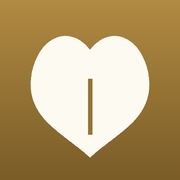
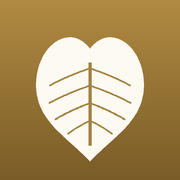
加入四個展區的 QR Code，圖示補上葉脈
- make-qr.py：從 index.html 讀展區，每站輸出純 QR（png/svg）與 A6 卡片
- QR 容錯設 H 並在中央嵌圖示，已用解碼器驗證各種縮放下都讀得到
- 純 QR 改白底：透明背景在很多軟體會被壓成黑底而掃不到
- 不再對 QR 做非整數倍縮放，避免格子忽寬忽窄
- 圖示維持原本的葉形，補上中脈與四對弧形側脈，線條放細調淡

diff --git a/make-qr.py b/make-qr.py
@@ -1,0 +1,114 @@
+#!/usr/bin/env python3
+"""產生四個展區的 QR Code。需先安裝：pip install qrcode Pillow
+
+  python3 make-qr.py [網址]
+
+展區名稱直接從 index.html 的 TRACKS 讀，網址預設是 GitHub Pages 那個。
+每一站輸出三種檔案到 qr/：
+  a1.png        純 QR（去背，方便自己排版）
+  a1.svg        純 QR 向量圖（印大張不會糊）
+  a1-card.png   A6 直式卡片 300dpi，可以直接印出來貼在展板上
+"""
+import io, os, re, sys
+import qrcode
+from qrcode.constants import ERROR_CORRECT_H
+from PIL import Image, ImageDraw, ImageFont
+
+BASE = sys.argv[1] if len(sys.argv) > 1 else "https://ding25025.github.io/puji-audio-guide/"
+OUT  = "qr"
+
+BG, FG   = (248, 246, 241), (33, 31, 26)     # 卡片底色、主要文字
+GOLD     = (138, 106, 47)
+MUTED    = (111, 106, 94)
+SONG     = "/System/Library/Fonts/Supplemental/Songti.ttc"   # 宋體繁體
+HEITI    = "/System/Library/Fonts/STHeiti Light.ttc"         # 黑體繁體
+font = lambda path, size, idx: ImageFont.truetype(path, size, index=idx)
+
+
+def tracks():
+    """從 index.html 讀展區，避免兩邊資料不同步"""
+    html = io.open("index.html", encoding="utf-8").read()
+    got = re.findall(r"id:'(\w+)', title:'([^']+)', label:'([^']+)'", html)
+    if not got:
+        raise SystemExit("index.html 裡找不到 TRACKS")
+    return got
+
+
+def qr_matrix(url):
+    q = qrcode.QRCode(error_correction=ERROR_CORRECT_H, border=4)
+    q.add_data(url); q.make(fit=True)
+    return q.get_matrix()
+
+
+def qr_image(url, px, dark=FG, light=(255, 255, 255)):
+    """畫成圖。背景一定要是實色：透明背景在很多軟體會被壓成黑底，就掃不到了"""
+    m = qr_matrix(url)
+    n = len(m)
+    cell = max(1, px // n)
+    img = Image.new("RGBA", (n * cell, n * cell), light + (255,))
+    d = ImageDraw.Draw(img)
+    for y, row in enumerate(m):
+        for x, on in enumerate(row):
+            if on:
+                d.rectangle([x*cell, y*cell, (x+1)*cell-1, (y+1)*cell-1], fill=dark + (255,))
+    return img          # 不再縮放：px 不是模組數的整數倍時，格子會忽寬忽窄而掃不到
+
+
+def with_logo(qr, ratio=.21):
+    """中央嵌菩提葉；容錯設為 H，遮住這點面積仍掃得到"""
+    if not os.path.exists("icon-512.png"):
+        return qr
+    side = round(qr.width * ratio)
+    pad  = round(side * .13)
+    plate = Image.new("RGBA", (side + pad*2, side + pad*2), (0, 0, 0, 0))
+    ImageDraw.Draw(plate).rounded_rectangle([0, 0, plate.width-1, plate.height-1],
+                                            radius=plate.width*.24, fill=(255, 255, 255, 255))
+    logo = Image.open("icon-512.png").convert("RGBA").resize((side, side), Image.LANCZOS)
+    plate.paste(logo, (pad, pad), logo)
+    qr = qr.copy()
+    qr.paste(plate, ((qr.width - plate.width)//2, (qr.height - plate.height)//2), plate)
+    return qr
+
+
+def svg(url, path):
+    m = qr_matrix(url); n = len(m)
+    rects = "".join(f'<rect x="{x}" y="{y}" width="1" height="1"/>'
+                    for y, row in enumerate(m) for x, on in enumerate(row) if on)
+    io.open(path, "w", encoding="utf-8").write(
+        f'<svg xmlns="http://www.w3.org/2000/svg" viewBox="0 0 {n} {n}" shape-rendering="crispEdges">'
+        f'<rect width="{n}" height="{n}" fill="#fff"/><g fill="#{"%02x%02x%02x" % FG}">{rects}</g></svg>\n')
+
+
+def card(url, title, label, path):
+    """A6 直式 300dpi"""
+    W, H = 1240, 1748
+    img = Image.new("RGB", (W, H), BG)
+    d = ImageDraw.Draw(img)
+    d.rounded_rectangle([28, 28, W-29, H-29], radius=46, outline=GOLD, width=4)
+
+    if os.path.exists("icon-192.png"):
+        leaf = Image.open("icon-192.png").convert("RGBA").resize((104, 104), Image.LANCZOS)
+        img.paste(leaf, ((W - 104)//2, 122), leaf)
+
+    d.text((W/2, 300), "小護法養成記", font=font(SONG, 62, 2), fill=FG, anchor="mm")
+    d.text((W/2, 372), "普濟精舍　護博會展覽", font=font(HEITI, 34, 0), fill=MUTED, anchor="mm")
+
+    q = with_logo(qr_image(url, 820))
+    qx, qy = (W - q.width)//2, 470
+    d.rounded_rectangle([qx-26, qy-26, qx+q.width+25, qy+q.height+25], radius=28, fill=(255, 255, 255))
+    img.paste(q, (qx, qy), q)
+
+    d.text((W/2, 1436), label, font=font(HEITI, 40, 0), fill=GOLD, anchor="mm")
+    d.text((W/2, 1532), title, font=font(SONG, 96, 2), fill=FG, anchor="mm")
+    d.text((W/2, 1632), "掃描聆聽語音導覽", font=font(HEITI, 38, 0), fill=MUTED, anchor="mm")
+    img.save(path, dpi=(300, 300))
+
+
+os.makedirs(OUT, exist_ok=True)
+for tid, title, label in tracks():
+    url = BASE + "#" + tid
+    with_logo(qr_image(url, 1200)).save(f"{OUT}/{tid}.png")
+    svg(url, f"{OUT}/{tid}.svg")
+    card(url, title, label, f"{OUT}/{tid}-card.png")
+    print(f"{label}　{title}　{url}")
+print(f"\n完成，檔案在 {OUT}/")

diff --git a/make-icon.py b/make-icon.py
@@ -13,19 +13,29 @@ SUPER  = 4                      # 先畫大張再縮小，邊緣才平滑
 GOLD_1 = (176, 138, 66)         # 底色漸層（上）
 GOLD_2 = (122,  92, 39)         # 底色漸層（下）
 LEAF   = (253, 250, 242)        # 葉子
-VEIN   = (150, 116, 54)         # 葉脈
+VEIN   = (163, 130, 64)         # 葉脈
 
 # 菩提葉輪廓：從頂端凹口出發，沿右側繞到葉尖，左側鏡像
-N = (256, 156)                                  # 頂端凹口（心形的缺口）
-R = (452, 268)                                  # 右側最寬處
-T = (256, 512)                                  # 葉尖
-SEG = [(N, (332,  58), (446, 126), R),          # 右上：肩膀圓一點
-       (R, (452, 388), (346, 430), T)]          # 右下：一路收成尖角
+N = (256, 150)                                  # 葉基凹口
+R = (434, 262)                                  # 葉身最寬處
+T = (256, 522)                                  # 葉尖
+SEG = [(N, (318,  66), (428, 130), R),          # 葉身上緣：肩膀圓潤一點
+       (R, (438, 386), (336, 438), T)]          # 下緣一路收成尖角
 SCALE = .86                                     # 整片葉子內縮，不要頂到邊
-OY    = -28                                     # 往上挪一點，視覺才置中
-VEIN_A, VEIN_B = (256, 252), (256, 436)         # 中脈起訖
+OY    = -26                                     # 往上挪一點，視覺才置中
+VEIN_A, VEIN_B = (256, 196), (256, 470)         # 中脈：從葉基一路貫到葉尖
+RIBS = [((256, 215), (323, 236), (390, 272)),   # 側脈：從近葉基處就開始分出，四對均勻散開
+        ((256, 272), (324, 294), (392, 330)),   # 越靠葉基的越長越平
+        ((256, 330), (314, 350), (372, 384)),   # （起點、弧的控制點、終點；左半鏡像）
+        ((256, 388), (293, 404), (330, 432))]
 mir = lambda p: (S - p[0], p[1])                # 左右鏡像
 fit = lambda p: (S/2 + (p[0] - S/2) * SCALE, S/2 + (p[1] - S/2) * SCALE + OY)
+
+
+def quad(p0, p1, p2, n=26):
+    return [((1-t)**2*p0[0] + 2*(1-t)*t*p1[0] + t*t*p2[0],
+             (1-t)**2*p0[1] + 2*(1-t)*t*p1[1] + t*t*p2[1])
+            for t in (i / n for i in range(n + 1))]
 
 
 def cubic(p0, p1, p2, p3, n=90):
@@ -71,7 +81,12 @@ def render(size, rounded=True):
     img.polygon([(x * k, y * k) for x, y in outline()], fill=LEAF + (255,))
     line = lambda p, q, w: img.line([(fit(p)[0] * k, fit(p)[1] * k), (fit(q)[0] * k, fit(q)[1] * k)],
                                     fill=VEIN + (255,), width=max(1, round(w * k)))
-    line(VEIN_A, VEIN_B, 13)
+    line(VEIN_A, VEIN_B, 9)
+    if size >= 96:                              # 32px 下側脈只會糊掉
+        for rib in RIBS:
+            for pts in (rib, [mir(q) for q in rib]):
+                img.line([(fit(q)[0] * k, fit(q)[1] * k) for q in quad(*pts)],
+                         fill=VEIN + (255,), width=max(1, round(5 * k)), joint="curve")
     return base.resize((size, size), Image.LANCZOS)
 
 
@@ -87,7 +102,12 @@ open("icon.svg", "w").write(f'''<svg xmlns="http://www.w3.org/2000/svg" viewBox=
   </linearGradient></defs>
   <rect width="{S}" height="{S}" rx="{round(S * 0.22)}" fill="url(#g)"/>
   <path d="{svg_path()}" fill="#{"%02x%02x%02x" % LEAF}"/>
-  <path d="M{"%g %g" % fit(VEIN_A)} L{"%g %g" % fit(VEIN_B)}" stroke="#{"%02x%02x%02x" % VEIN}" stroke-width="13" stroke-linecap="round" fill="none"/>
+  <g stroke="#{"%02x%02x%02x" % VEIN}" stroke-linecap="round" fill="none">
+    <path d="M{"%g %g" % fit(VEIN_A)} L{"%g %g" % fit(VEIN_B)}" stroke-width="9"/>
+    {"".join('<path d="M%g %g Q%g %g %g %g" stroke-width="5"/>' % (fit(a) + fit(c) + fit(b)) +
+             '<path d="M%g %g Q%g %g %g %g" stroke-width="5"/>' % (fit(mir(a)) + fit(mir(c)) + fit(mir(b)))
+             for a, c, b in RIBS)}
+  </g>
 </svg>
 ''')
 print("產生 icon.svg")

diff --git a/README.md b/README.md
@@ -6,6 +6,7 @@
 - `make-audio.sh`　用 [edge-tts](https://github.com/rany2/edge-tts) 產生 `audio1~4.mp3`
 - `audio1~4.mp3`　啟蒙區、歷練區、叛逆區、成長區
 - `make-icon.py`　產生菩提葉圖示（`icon.svg`、`icon-*.png`、`apple-touch-icon.png`）
+- `make-qr.py`　產生四個展區的 QR Code，輸出到 `qr/`
 - `manifest.webmanifest`　讓手機可以「加入主畫面」，開啟時沒有瀏覽器介面
 
 ## 網頁功能
@@ -22,6 +23,23 @@
 pip install Pillow
 python3 make-icon.py
 ```
+
+## 重新產生 QR Code
+
+```bash
+pip install qrcode Pillow
+python3 make-qr.py            # 換網址就在後面加上去：python3 make-qr.py https://...
+```
+
+展區名稱直接從 `index.html` 的 `TRACKS` 讀，不會兩邊對不上。每一站三種檔案：
+
+| 檔案 | 用途 |
+|---|---|
+| `qr/a1-card.png` | A6 直式卡片 300dpi，可以直接印出來貼在展板上 |
+| `qr/a1.png` | 純 QR，白底，自己排版用 |
+| `qr/a1.svg` | 純 QR 向量圖，印大張不會糊 |
+
+容錯等級設 H，中央嵌菩提葉仍掃得到（已用解碼器驗證過，卡片縮到 22%、純 QR 縮到 15% 都還讀得出來）。
 
 ## 重新產生語音檔
 
